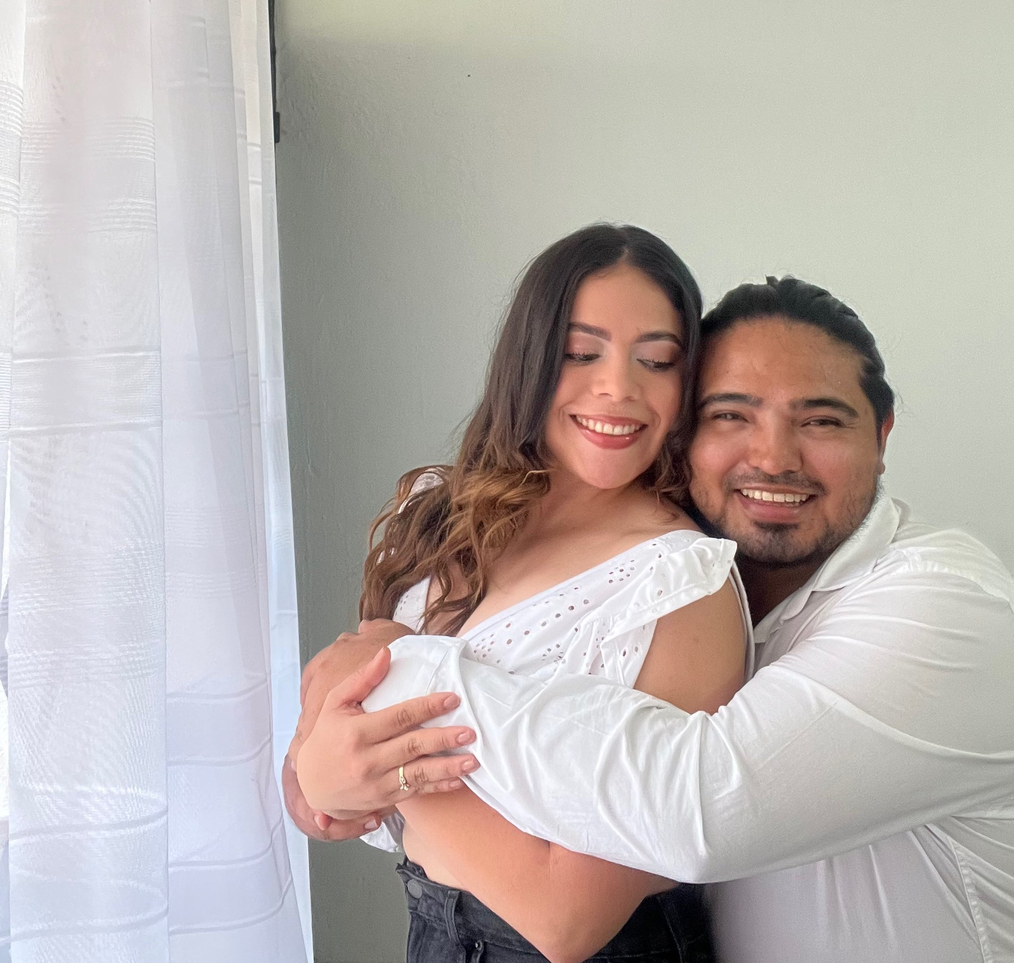
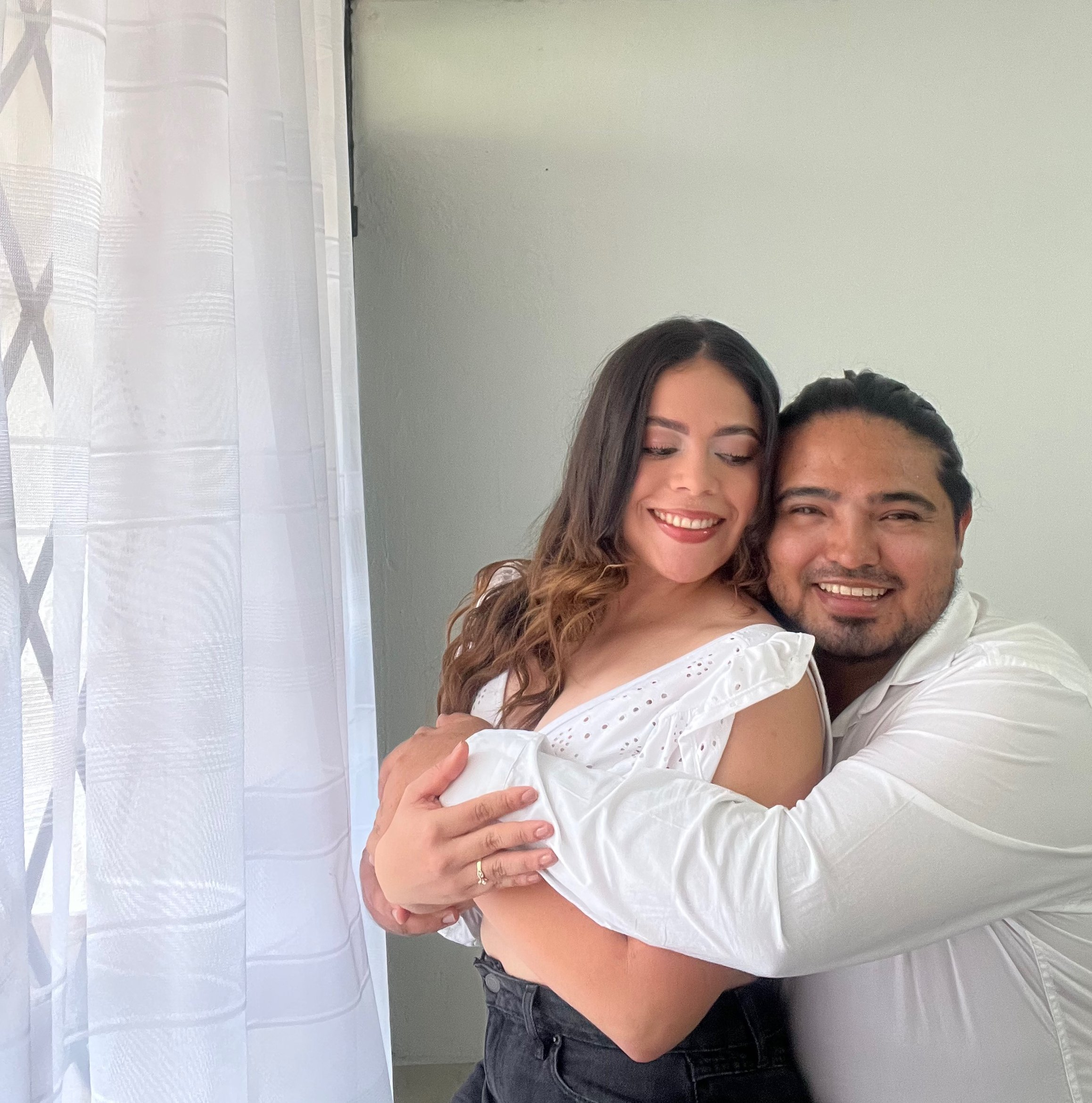
update: image pexels principal

diff --git a/index.html b/index.html
@@ -28,7 +28,7 @@
         style="
         background-image: url('images/principal.jpeg');
         background-size: cover;
-        background-position: center;
+        background-position: right;
         background-attachment: fixed;
         height: 960px;
     ">
@@ -128,7 +128,7 @@
                     <div class="absolute w-[350px] h-[350px] border border-[#BFA880]/30 
                                 rounded-[40%_60%_45%_55%] -rotate-12"></div>
 
-                    <div class="absolute w-[390px] h-[440px] border border-[#BFA880]/50 
+                    <div class="absolute w-[390px] h-[390px] border border-[#BFA880]/50 
                                 rounded-[55%_45%_60%_40%] rotate-3"></div>
 
                 </div>
